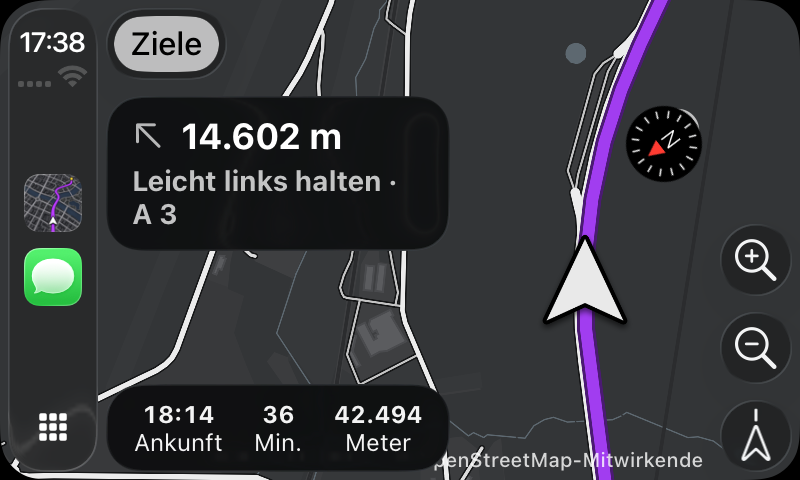
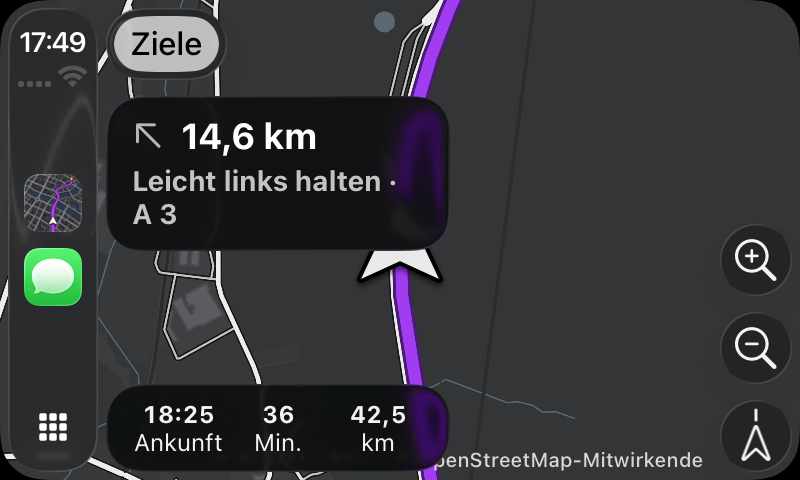
GM-025: Pfeil in der Mitte der freien Fläche (CarPlay-Safe-Area), Kompass aus in der Fahrt, alte Bilder löschen

diff --git a/App/FollowCamera.swift b/App/FollowCamera.swift
@@ -50,6 +50,7 @@ final class FollowCamera: NSObject {
         map?.userTrackingMode = .none
         map?.showsUserLocation = false
         map?.automaticallyAdjustsContentInset = false
+        map?.compassView.isHidden = true // GM-025: Kompass stört in der Fahrt
     }
 
     func stop() {
@@ -58,6 +59,7 @@ final class FollowCamera: NSObject {
         arrow.isHidden = true
         map?.showsUserLocation = true
         map?.contentInset = .zero
+        map?.compassView.isHidden = false
     }
 
     func zoom(by step: Double) {
@@ -85,15 +87,19 @@ final class FollowCamera: NSObject {
             heading = (heading + dh * kRot + 360).truncatingRemainder(dividingBy: 360)
             altitude += (goalAlt - altitude) * kAlt
         }
-        // Mittelpunkt der Kamera = Pfeil-Position (Inset verschiebt ihn bei Bedarf nach unten)
-        let h = map.bounds.height
-        let shift: CGFloat = (arrowY - 0.5) * h * 2
-        let inset = UIEdgeInsets(top: max(0, shift), left: 0, bottom: max(0, -shift), right: 0)
+        // Mittelpunkt der Kamera = Pfeil-Position: Mitte der freien Fläche (Safe Area – in CarPlay ohne die
+        // Abbiegekarte/Leisten von iOS), senkrecht bei arrowY. Inset nur ändern, wenn nötig.
+        let safe = map.safeAreaInsets
+        let free = map.bounds.inset(by: safe)
+        let ay: CGFloat = free.minY + free.height * arrowY
+        let ax: CGFloat = free.midX
+        let inset = UIEdgeInsets(top: max(0, 2 * ay - map.bounds.height), left: max(0, 2 * ax - map.bounds.width),
+                                 bottom: max(0, map.bounds.height - 2 * ay), right: max(0, map.bounds.width - 2 * ax))
         if map.contentInset != inset { map.contentInset = inset }
         let cam = MLNMapCamera(lookingAtCenter: CLLocationCoordinate2D(latitude: lat, longitude: lon),
                                altitude: altitude, pitch: pitch, heading: heading)
         map.setCamera(cam, animated: false)
-        arrow.center = CGPoint(x: map.bounds.midX, y: h * arrowY)
+        arrow.center = CGPoint(x: ax, y: ay)
         arrow.isHidden = false
         if arrow.superview === map { map.bringSubviewToFront(arrow) }
     }
